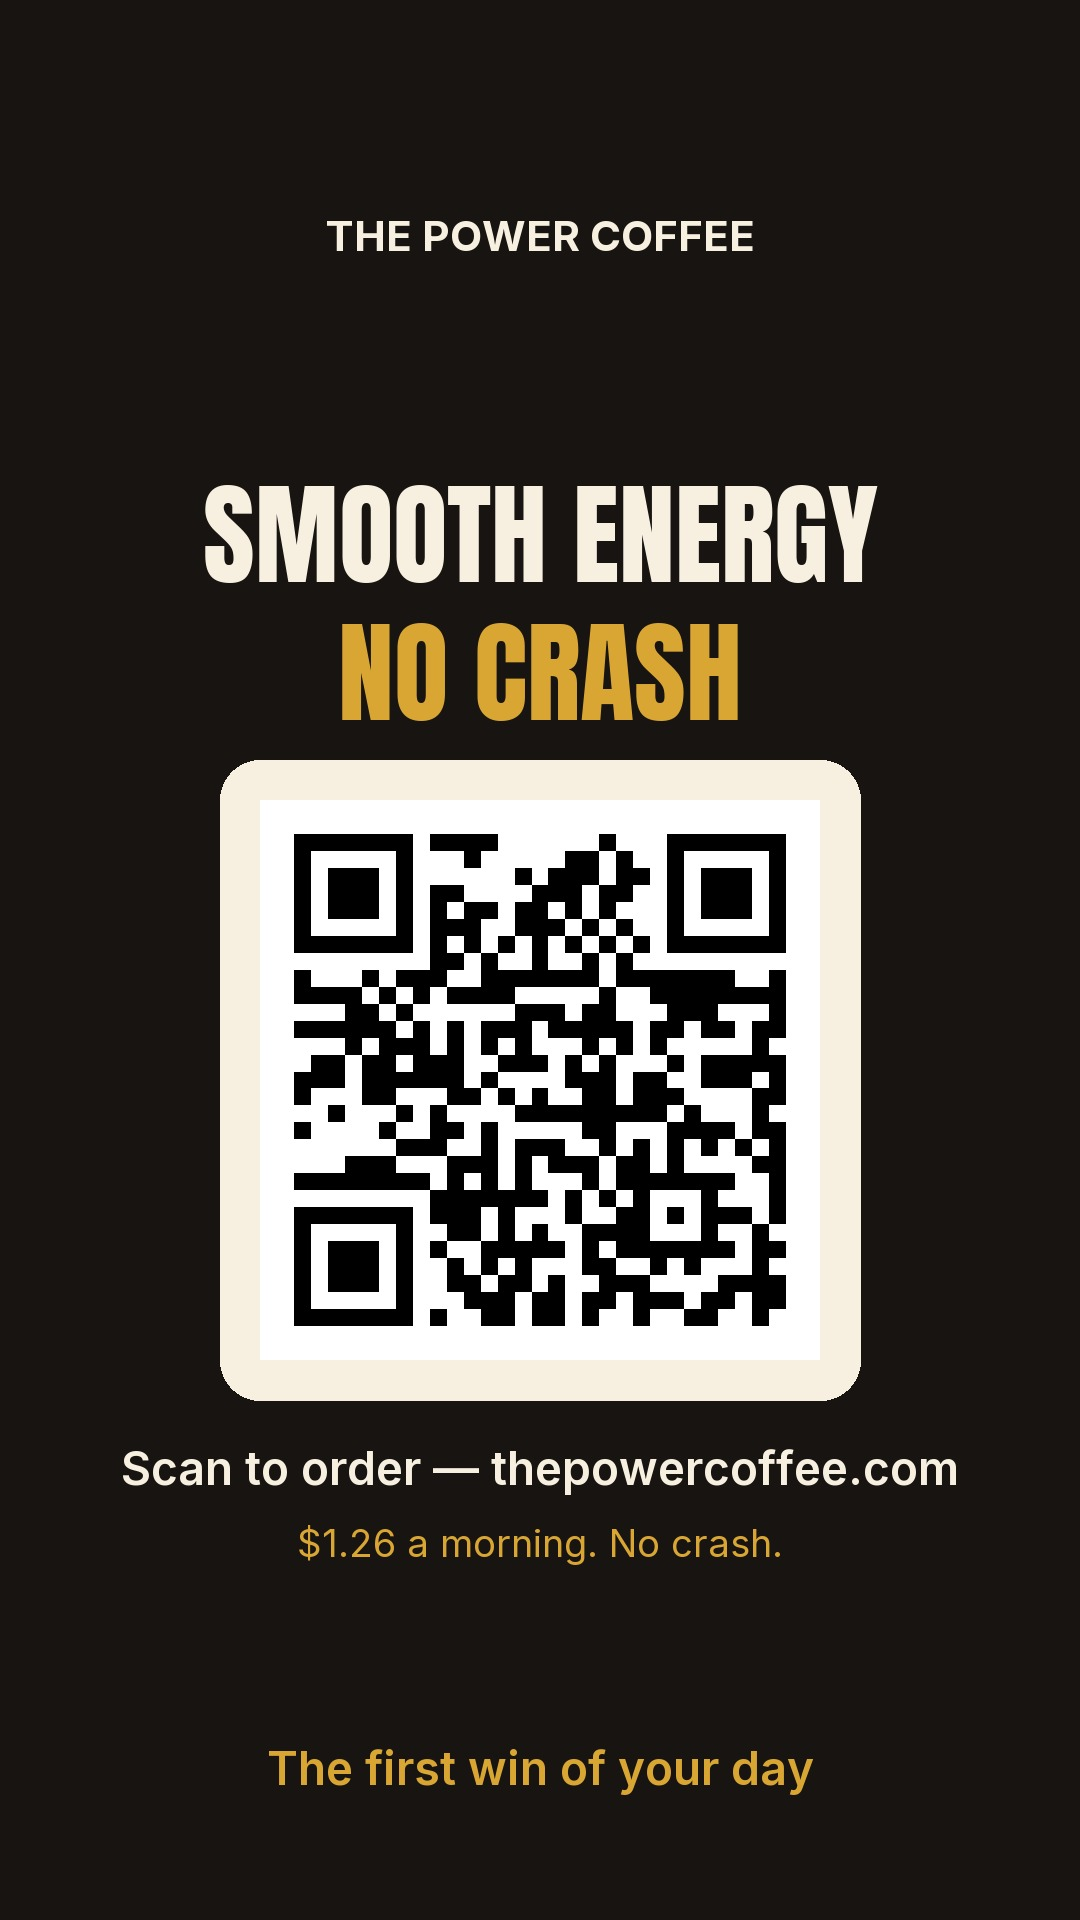
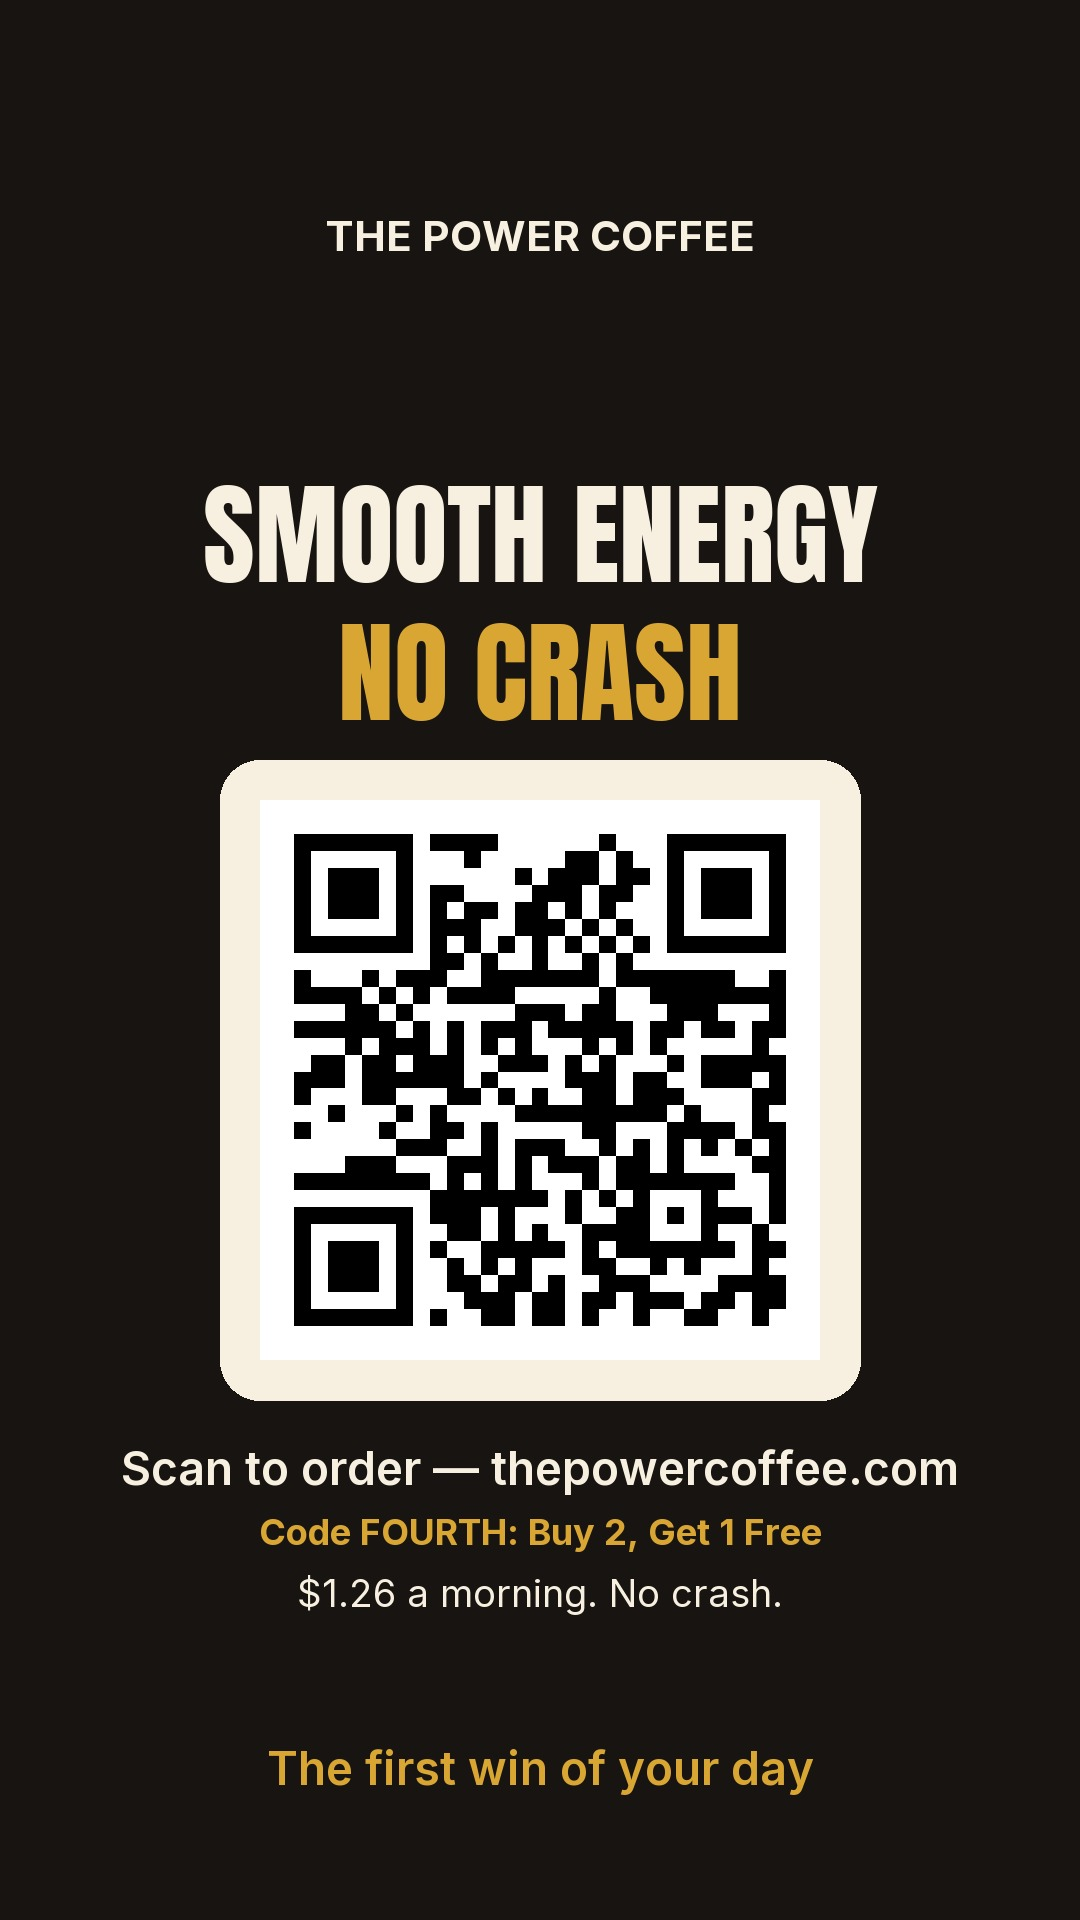
feat: 100-in-July campaign — content-system signal + CTA story + jul11 FOURTH

Changed region(s): [[0.2444, 0.7812, 0.7639, 0.8438]]

diff --git a/brain/references/content-system.md b/brain/references/content-system.md
@@ -20,6 +20,17 @@ Adopt the writing-quality rules from the `no-ai-slop` skill. Keep our brand voic
 7. **Vary sentence and paragraph length.** No three identical-shape lines in a row.
 8. **Read it before it publishes.** If a line could sit on any brand's post, rewrite it so only Power Coffee could have said it.
 
+## Active Campaign — July 2026 (Jul 9–31)
+
+**Goal:** 100 packs sold in July.
+**Offer:** Buy 2 bags, get 1 free. **Code FOURTH** at thepowercoffee.com. Expires Jul 31.
+**Inject into:** all P6 CTAs, X posts, Telegram messages, LinkedIn buyer-invite posts, Shopify blog footers, email campaigns.
+**Angle:** Radical transparency — Leo sharing the goal publicly (highest-ER LENS format). Make the audience feel like they're part of hitting the number. "I set a goal. Here's your part."
+**Email sequence:** launch Jul 9, mid Jul 16, close Jul 28 — `email_campaign_july100.py`.
+**Do NOT inject into:** P2 ingredient science hooks or P3 founder proof hooks (don't let the offer dilute the trust-building content; only place it at the close/CTA moment of each piece).
+
+---
+
 ## 6 Content Pillars
 
 | # | Pillar | Purpose | Best Platform |

diff --git a/daily_content/jul2026_content/jul11_2026/content.md b/daily_content/jul2026_content/jul11_2026/content.md
@@ -45,7 +45,7 @@ Power Coffee tastes like coffee, because it is coffee. 11 real ingredients: prot
 
 First buyer review called it "rich, smooth, and perfectly flavored." She wasn't expecting that. Most people aren't.
 
-Raw flavor is the proof the formula is real.
+Raw flavor is the proof the formula is real. Buy 2, get 1 free — code FOURTH at checkout.
 
 thepowercoffee.com
 
@@ -68,7 +68,7 @@ One thing people don't expect: it doesn't taste like a supplement. The first buy
 
 No artificial sweeteners. No vanilla extract. No flavor masking. It tastes like what's actually in it, which is real coffee and 10 other functional ingredients.
 
-One bag. 15 servings. $18.90. Ships from Amazon, or subscribe and save at thepowercoffee.com.
+One bag. 15 servings. $18.90. Or buy 2 bags and get a third free — code FOURTH at thepowercoffee.com. Expires end of July.
 
 What's the one thing that's kept you from trying it? Genuinely want to know.
 
